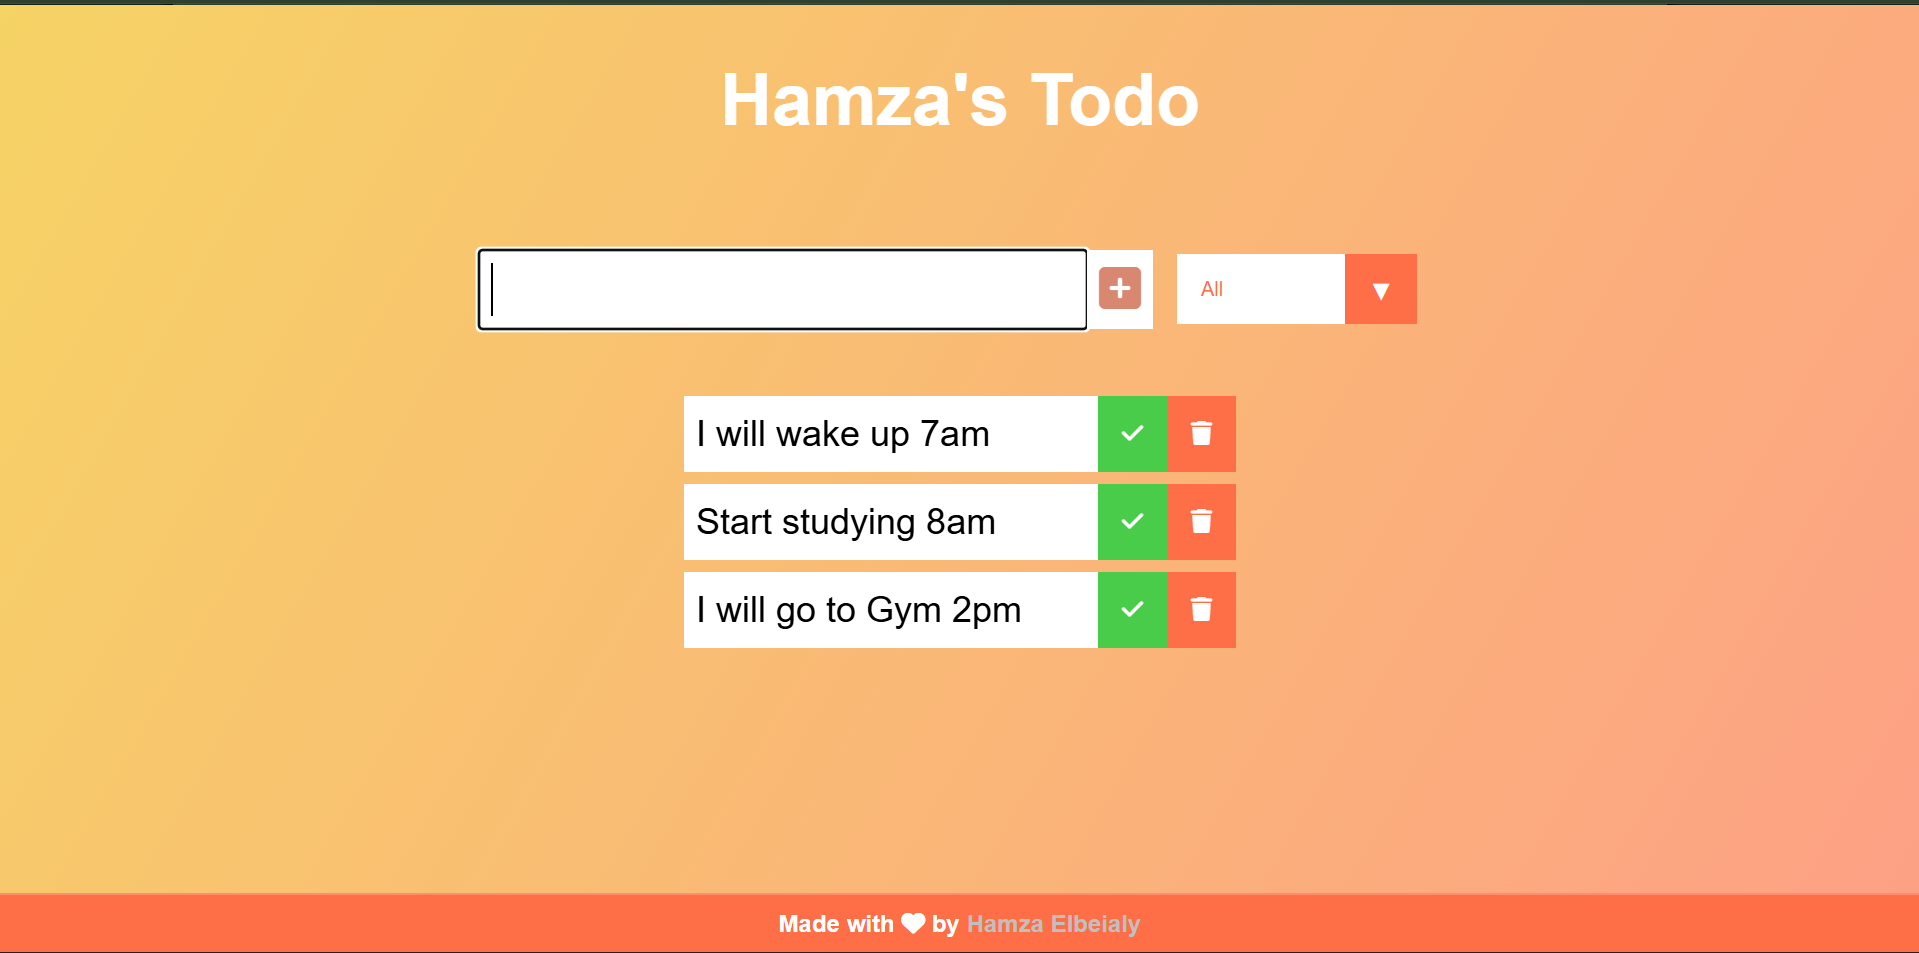
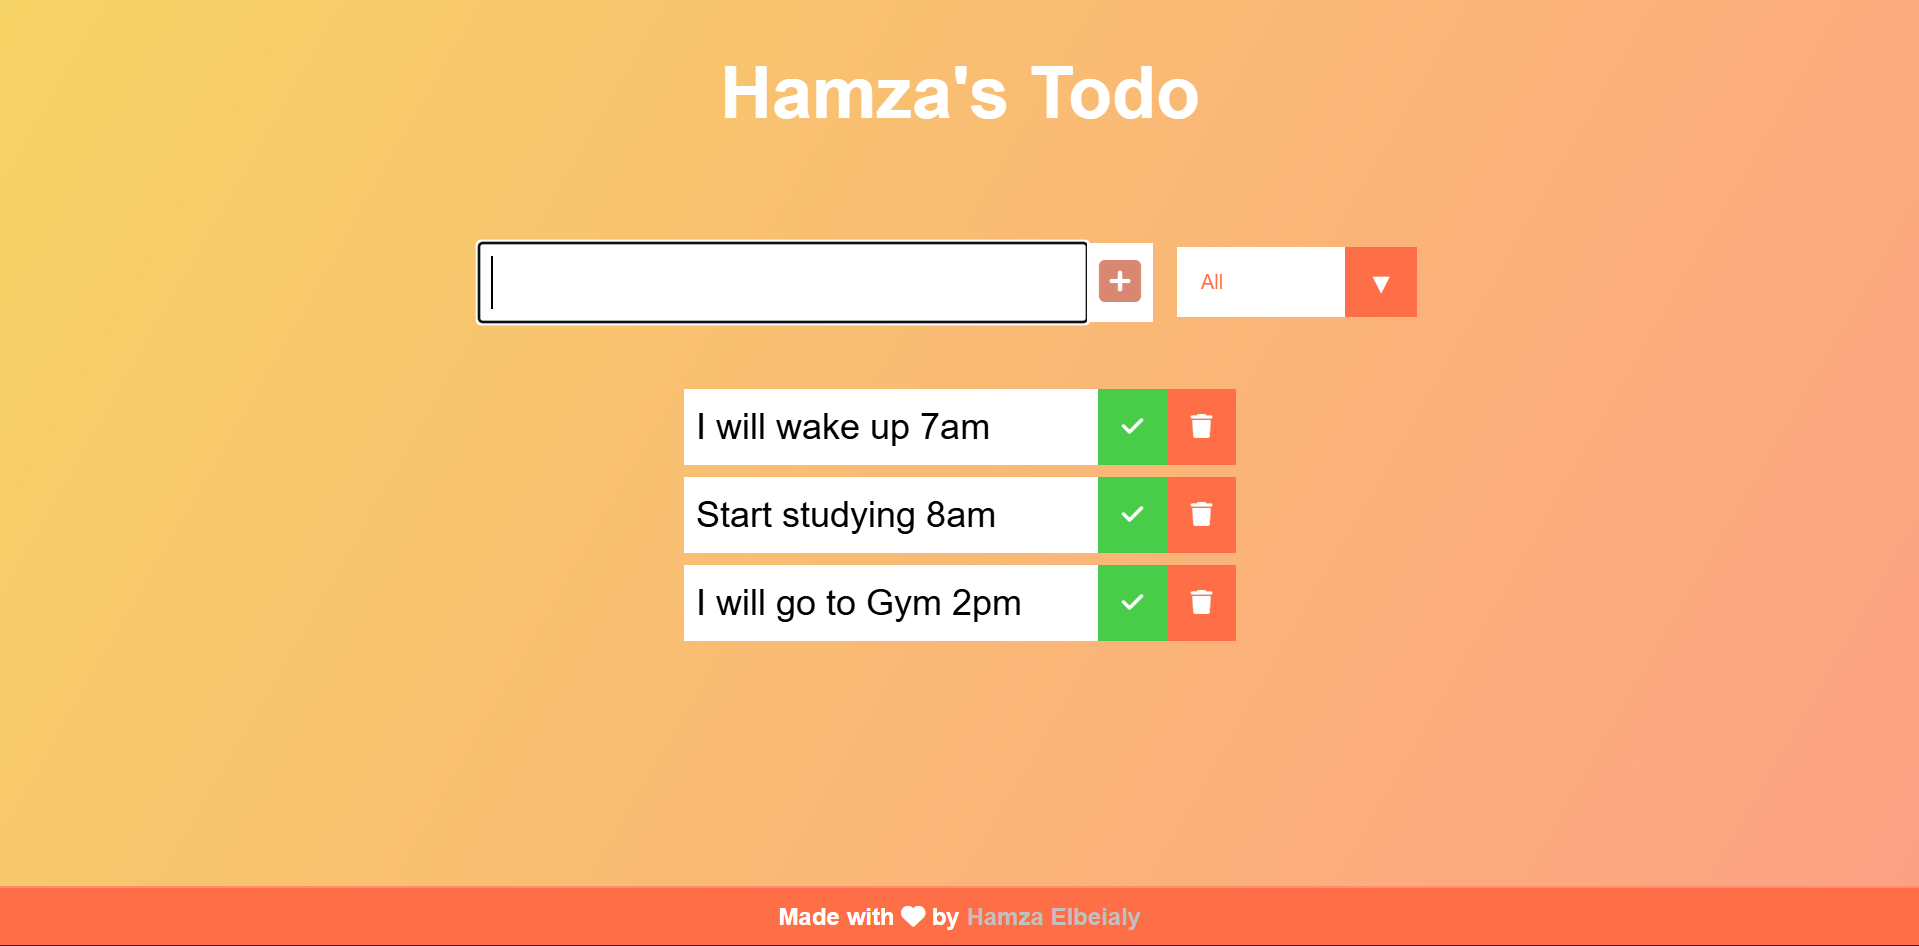
Update project

diff --git a/css/master.css b/css/master.css
@@ -753,7 +753,7 @@ h2 {
 .work {
   position: relative;
   width: 100%;
-  min-height: 40rem;
+  min-height: 35rem;
   margin-bottom: 2rem;
   text-align: center;
   transition: var(--transition);
@@ -879,7 +879,6 @@ h2 {
   padding-top: 1.7rem;
   margin-bottom: 0.5rem;
   overflow: scroll;
-  max-height: 40%;
   scrollbar-width: none;
   line-height: 1;
 }
